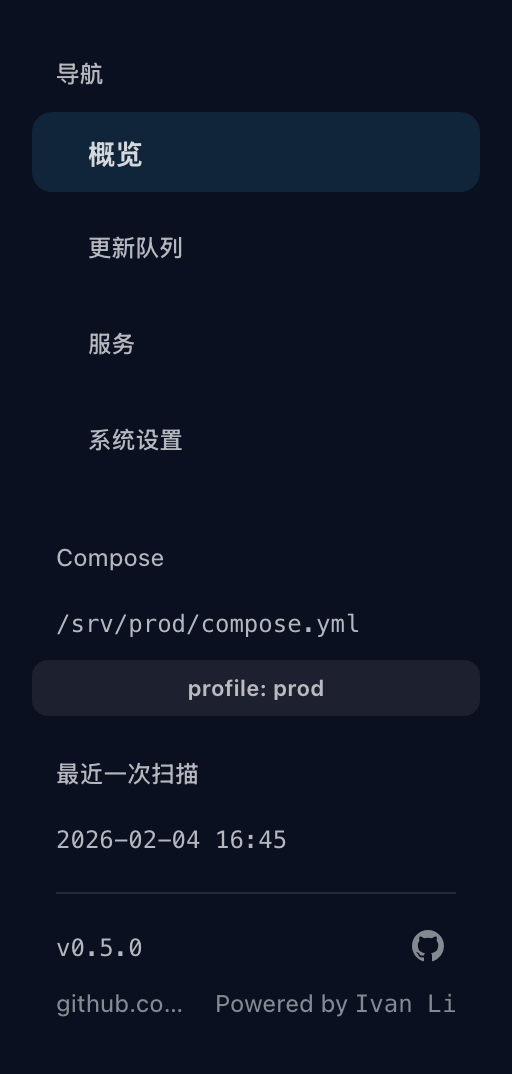
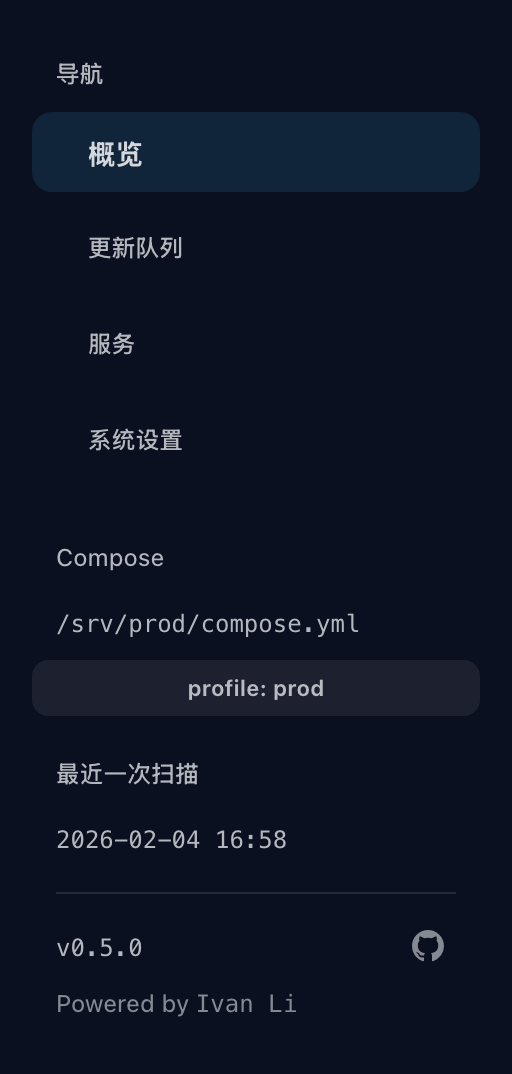
refactor(web): drop repo url row in app meta

Changed region(s): [[0.0938, 0.9218, 0.8438, 0.9525], [0.5, 0.7682, 0.5625, 0.7989], [0.875, 0.9218, 0.9062, 0.9525]]

diff --git a/web/src/Shell.tsx b/web/src/Shell.tsx
@@ -168,24 +168,14 @@ export function AppShell(props: {
                 <GitHubIcon className="sidebarMetaGitHub" />
               </a>
             </div>
-            <div className="sidebarMetaBottom">
-              <a
-                className="sidebarMetaRepo"
-                href="https://github.com/IvanLi-CN/dockrev"
-                target="_blank"
-                rel="noopener noreferrer"
-              >
-                github.com/IvanLi-CN/dockrev
-              </a>
-              <a
-                className="sidebarMetaPowered"
-                href="https://github.com/IvanLi-CN"
-                target="_blank"
-                rel="noopener noreferrer"
-              >
-                Powered by <span className="mono">Ivan Li</span>
-              </a>
-            </div>
+            <a
+              className="sidebarMetaPowered"
+              href="https://github.com/IvanLi-CN"
+              target="_blank"
+              rel="noopener noreferrer"
+            >
+              Powered by <span className="mono">Ivan Li</span>
+            </a>
           </div>
         </aside>
 

diff --git a/web/src/App.css b/web/src/App.css
@@ -112,25 +112,6 @@
   text-decoration: underline;
 }
 
-.sidebarMetaBottom {
-  display: flex;
-  align-items: center;
-  justify-content: space-between;
-  gap: 12px;
-  margin-top: 6px;
-  font-size: 12px;
-  color: var(--muted2);
-}
-
-.sidebarMetaRepo {
-  flex: 1 1 auto;
-  min-width: 0;
-  overflow: hidden;
-  text-overflow: ellipsis;
-  white-space: nowrap;
-  color: inherit;
-}
-
 .sidebarMetaIcon {
   display: inline-flex;
   align-items: center;
@@ -153,9 +134,10 @@
 }
 
 .sidebarMetaPowered {
-  flex: 0 0 auto;
-  color: inherit;
-  white-space: nowrap;
+  display: block;
+  margin-top: 6px;
+  font-size: 12px;
+  color: var(--muted2);
 }
 
 .sidebarMetaPowered .mono {
